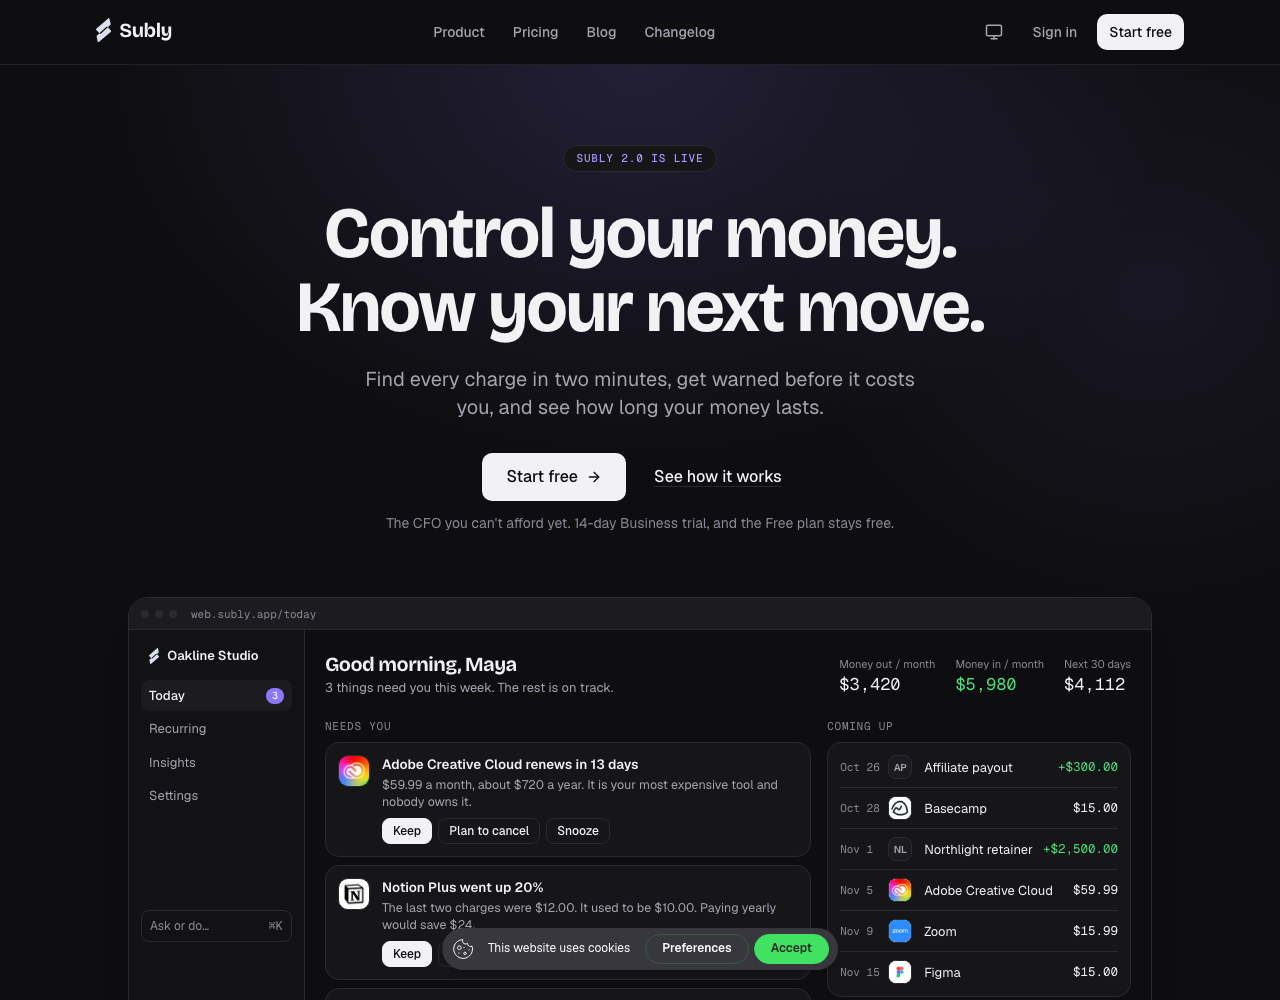
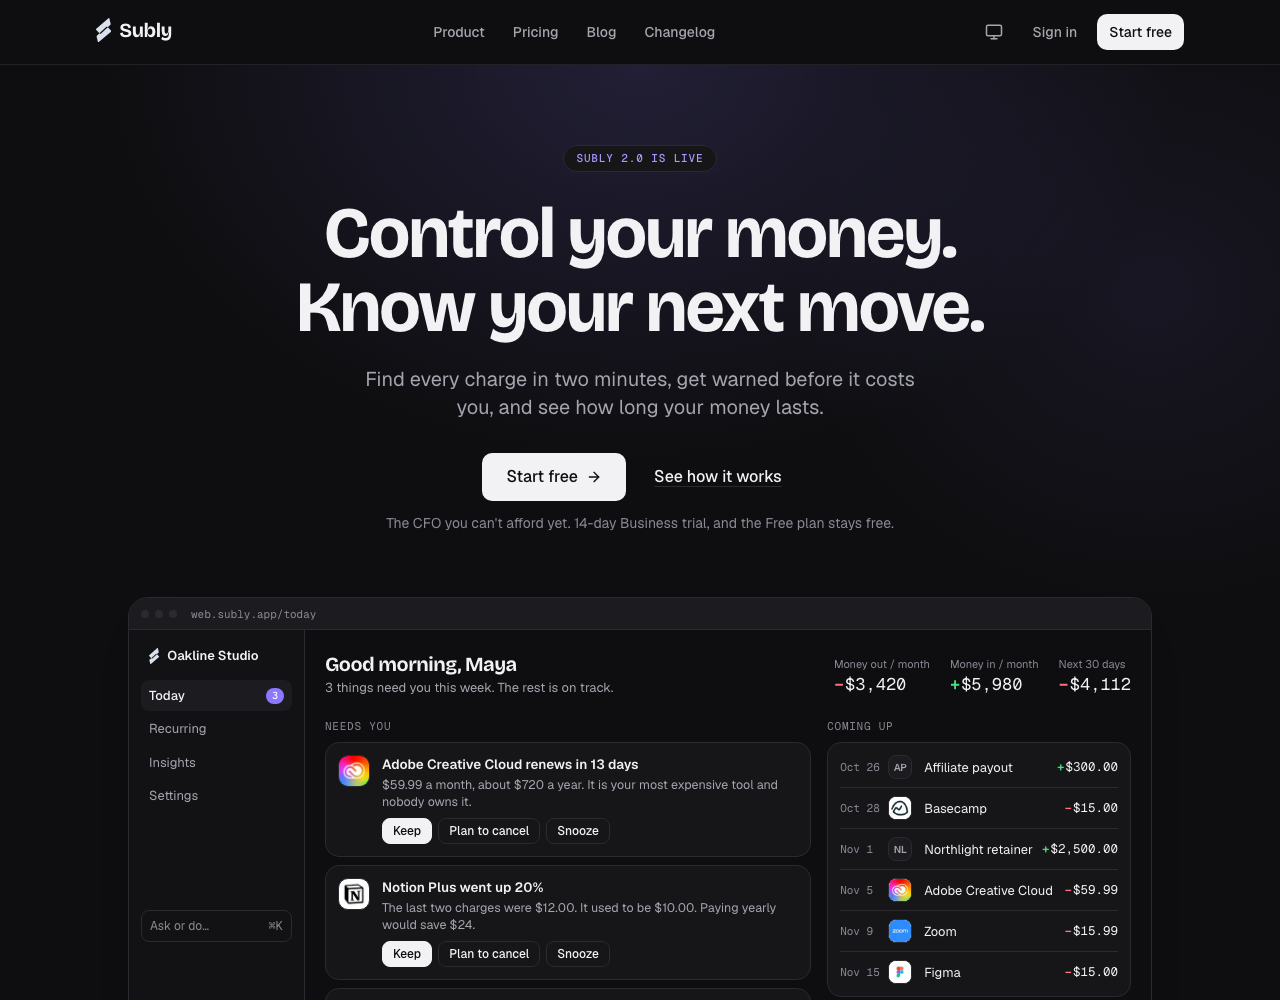
Mock-ups: neutral amounts with a coloured +/− glyph where money in and out mix

diff --git a/components/home/today-screen.tsx b/components/home/today-screen.tsx
@@ -1,4 +1,4 @@
-import { FakeButton, ServiceLogo, WindowFrame } from '@/components/home/mock'
+import { FakeButton, Flow, ServiceLogo, WindowFrame } from '@/components/home/mock'
 import { LogoMark } from '@/components/site/logo'
 
 const signals = [
@@ -21,9 +21,9 @@ const signals = [
 ] as const
 
 const upcoming = [
-  { date: 'Oct 26', abbr: 'AP', name: 'Affiliate payout', amount: '+$300.00', incoming: true },
+  { date: 'Oct 26', abbr: 'AP', name: 'Affiliate payout', amount: '$300.00', incoming: true },
   { date: 'Oct 28', logo: 'basecamp', name: 'Basecamp', amount: '$15.00' },
-  { date: 'Nov 1', abbr: 'NL', name: 'Northlight retainer', amount: '+$2,500.00', incoming: true },
+  { date: 'Nov 1', abbr: 'NL', name: 'Northlight retainer', amount: '$2,500.00', incoming: true },
   { date: 'Nov 5', logo: 'adobecc', name: 'Adobe Creative Cloud', amount: '$59.99' },
   { date: 'Nov 9', logo: 'zoom', name: 'Zoom', amount: '$15.99' },
   { date: 'Nov 15', logo: 'figma', name: 'Figma', amount: '$15.00' },
@@ -73,15 +73,15 @@ export function TodayScreen({ className = '' }: { className?: string }) {
             <dl className="grid grid-cols-3 gap-3 sm:flex sm:gap-5">
               <div>
                 <dt className="text-[11px] text-faint">Money out <span className="block sm:inline">/ month</span></dt>
-                <dd className="font-mono text-[15px] tabular-nums sm:text-[17px]">$3,420</dd>
+                <dd className="font-mono text-[15px] tabular-nums sm:text-[17px]"><Flow dir="out">$3,420</Flow></dd>
               </div>
               <div>
                 <dt className="text-[11px] text-faint">Money in <span className="block sm:inline">/ month</span></dt>
-                <dd className="font-mono text-[15px] tabular-nums text-money-in sm:text-[17px]">$5,980</dd>
+                <dd className="font-mono text-[15px] tabular-nums sm:text-[17px]"><Flow dir="in">$5,980</Flow></dd>
               </div>
               <div>
                 <dt className="text-[11px] text-faint">Next <span className="block sm:inline">30 days</span></dt>
-                <dd className="font-mono text-[15px] tabular-nums sm:text-[17px]">$4,112</dd>
+                <dd className="font-mono text-[15px] tabular-nums sm:text-[17px]"><Flow dir="out">$4,112</Flow></dd>
               </div>
             </dl>
           </div>
@@ -128,7 +128,9 @@ export function TodayScreen({ className = '' }: { className?: string }) {
                     <span className="font-mono text-[11px] text-faint">{u.date}</span>
                     <ServiceLogo logo={'logo' in u ? u.logo : undefined} abbr={'abbr' in u ? u.abbr : ''} className="h-6 w-6 rounded-md text-[10px]" />
                     <span className="truncate text-[13px]">{u.name}</span>
-                    <span className={`font-mono text-[12.5px] tabular-nums ${'incoming' in u ? 'text-money-in' : ''}`}>{u.amount}</span>
+                    <span className="font-mono text-[12.5px] tabular-nums">
+                      <Flow dir={'incoming' in u ? 'in' : 'out'}>{u.amount}</Flow>
+                    </span>
                   </li>
                 ))}
               </ul>

diff --git a/components/home/money-in-out.tsx b/components/home/money-in-out.tsx
@@ -1,5 +1,5 @@
 import { Globe, Receipt, Scale } from 'lucide-react'
-import { ServiceLogo } from '@/components/home/mock'
+import { Flow, ServiceLogo } from '@/components/home/mock'
 import { Section, SectionHeading } from '@/components/ui/section'
 
 const points = [
@@ -21,8 +21,8 @@ const points = [
 ]
 
 const rows = [
-  { abbr: 'NL', name: 'Northlight retainer', note: 'Money in · monthly', amount: '+$2,500.00', incoming: true },
-  { abbr: 'Cb', name: 'Coastline Bakery', note: 'Money in · £1,200 monthly', amount: '+$1,560.00', incoming: true },
+  { abbr: 'NL', name: 'Northlight retainer', note: 'Money in · monthly', amount: '$2,500.00', incoming: true },
+  { abbr: 'Cb', name: 'Coastline Bakery', note: 'Money in · £1,200 monthly', amount: '$1,560.00', incoming: true },
   { logo: 'hetzner', name: 'Hetzner servers', note: 'Money out · €38.00 monthly', amount: '$41.30' },
   { logo: 'appsumo', name: 'Calmy', note: 'Lifetime deal · refundable for 7 more days', amount: '$69.00' },
 ]
@@ -63,7 +63,7 @@ export function MoneyInOut() {
               <div>
                 <div className="flex items-baseline justify-between text-sm">
                   <span className="text-muted-foreground">Money in</span>
-                  <span className="font-mono tabular-nums text-money-in">$5,980</span>
+                  <span className="font-mono tabular-nums"><Flow dir="in">$5,980</Flow></span>
                 </div>
                 <div className="mt-1.5 h-2.5 rounded-full bg-muted">
                   <div className="h-full rounded-full bg-money-in" style={{ width: '100%' }} />
@@ -72,7 +72,7 @@ export function MoneyInOut() {
               <div>
                 <div className="flex items-baseline justify-between text-sm">
                   <span className="text-muted-foreground">Money out</span>
-                  <span className="font-mono tabular-nums">$3,420</span>
+                  <span className="font-mono tabular-nums"><Flow dir="out">$3,420</Flow></span>
                 </div>
                 <div className="mt-1.5 h-2.5 rounded-full bg-muted">
                   <div className="h-full rounded-full bg-foreground/70" style={{ width: '57%' }} />
@@ -91,7 +91,9 @@ export function MoneyInOut() {
                     <p className="truncate text-sm font-medium">{r.name}</p>
                     <p className="truncate text-xs text-muted-foreground">{r.note}</p>
                   </div>
-                  <span className={`font-mono text-sm tabular-nums ${r.incoming ? 'text-money-in' : ''}`}>{r.amount}</span>
+                  <span className="font-mono text-sm tabular-nums">
+                    <Flow dir={'incoming' in r ? 'in' : 'out'}>{r.amount}</Flow>
+                  </span>
                 </li>
               ))}
             </ul>

diff --git a/components/home/mock.tsx b/components/home/mock.tsx
@@ -104,5 +104,21 @@ export function WindowFrame({
   )
 }
 
+/**
+ * Digits stay in the foreground colour; direction is a small coloured glyph:
+ * green + for money in, rose − for money out. Use it only where money in and
+ * money out share a surface.
+ */
+export function Flow({ dir, children }: { dir: 'in' | 'out'; children: ReactNode }) {
+  return (
+    <span className="whitespace-nowrap">
+      <span aria-hidden="true" className={`mr-px font-semibold ${dir === 'in' ? 'text-money-in' : 'text-problem'}`}>
+        {dir === 'in' ? '+' : '−'}
+      </span>
+      {children}
+    </span>
+  )
+}
+
 export const money = (n: number) =>
   n.toLocaleString('en-US', { style: 'currency', currency: 'USD', minimumFractionDigits: n % 1 ? 2 : 0 })

diff --git a/app/(site)/roadmap/page.tsx b/app/(site)/roadmap/page.tsx
@@ -33,7 +33,7 @@ const sections = [
 
 const badge = {
   Enhancement: 'bg-brand-soft text-brand-ink',
-  'New feature': 'bg-money-in-soft text-money-in',
+  'New feature': 'bg-secondary text-secondary-foreground',
 } as const
 
 export default function RoadmapPage() {
